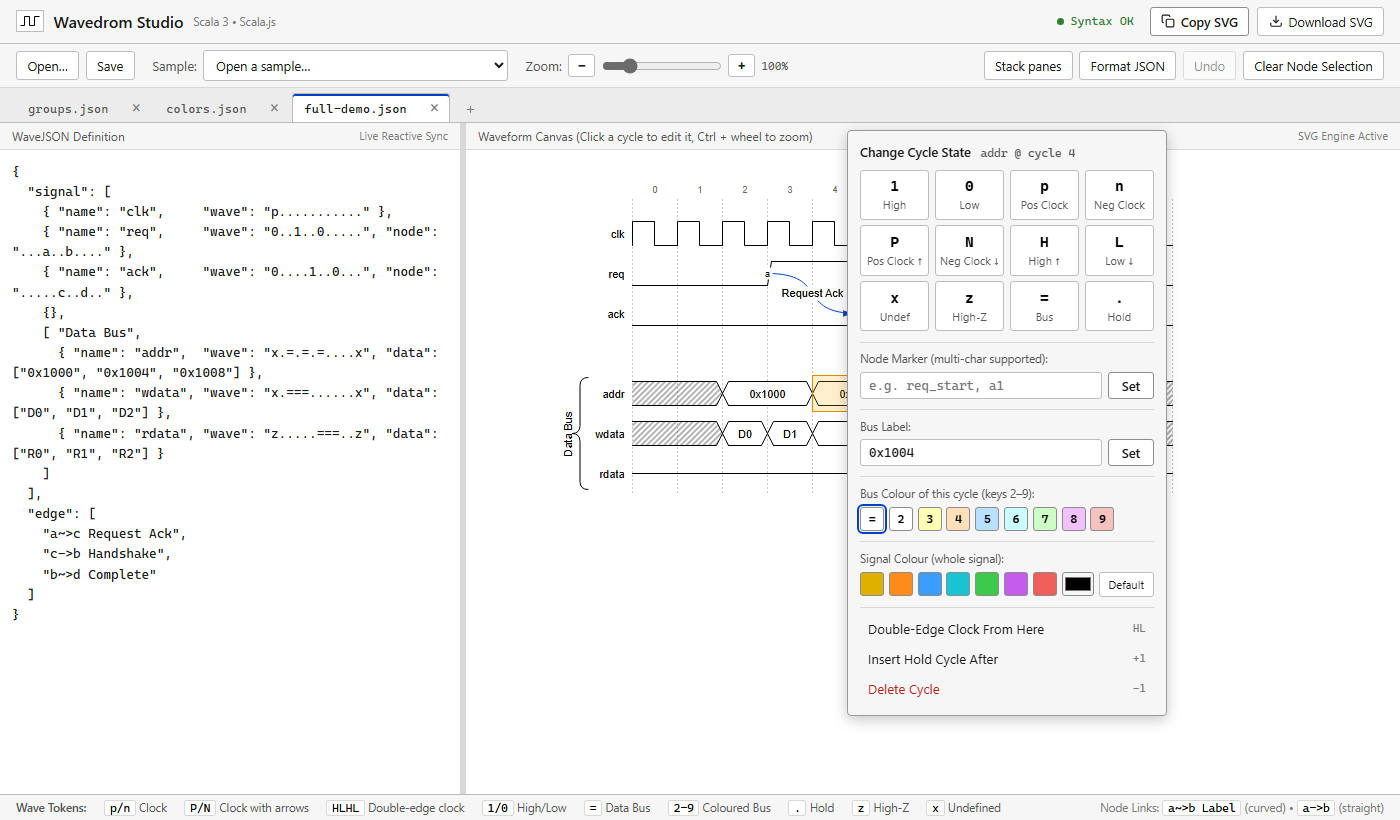
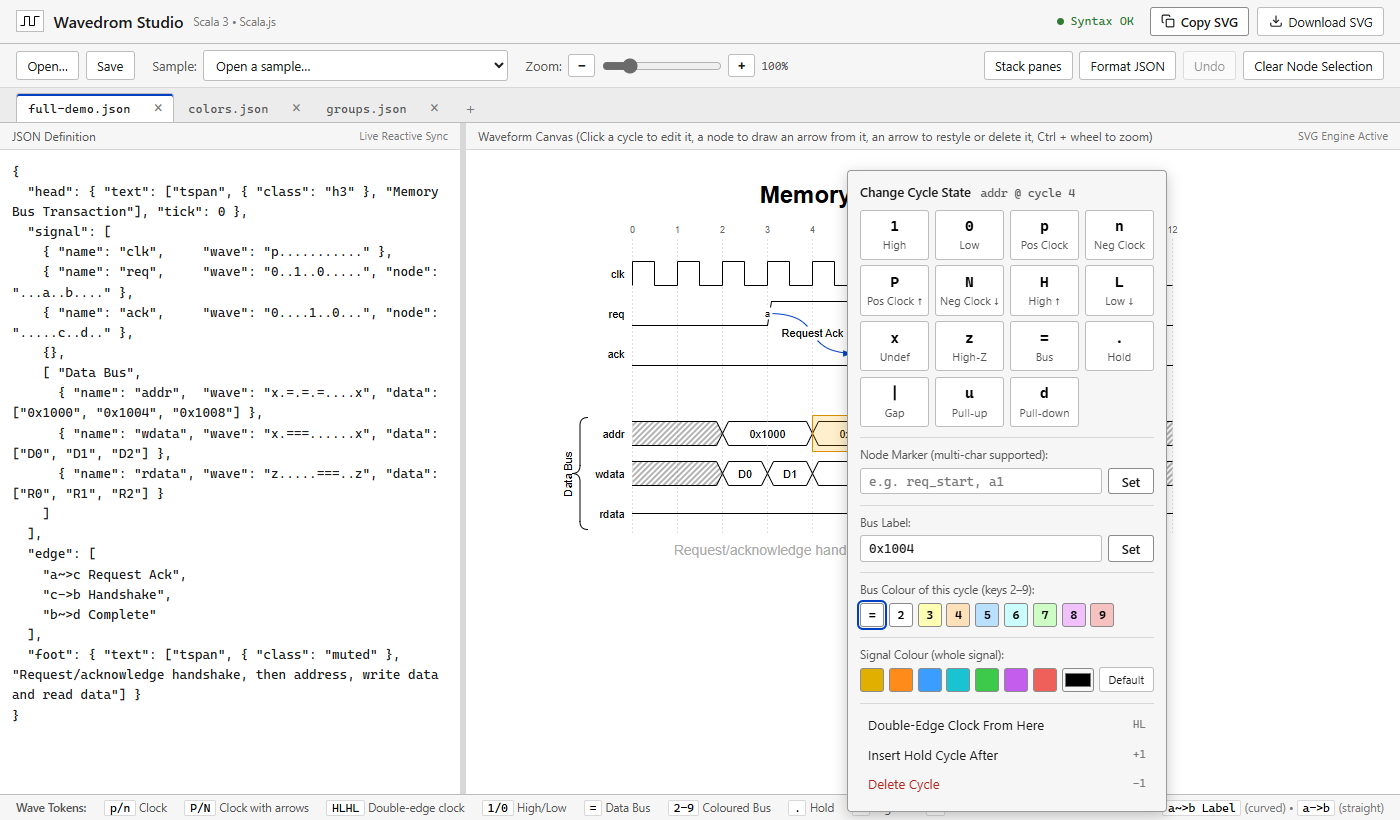
Tidy the Edge arrows sample and regenerate the README screenshots
The sample now has one group per arrow family, each with its arrows in
separate columns, so none of them cross; labels name the shape they show.
The README screenshots are regenerated for the current look (headers and
footers, the new cycle editor buttons), and a new one shows the arrow editor.

diff --git a/README.md b/README.md
@@ -79,6 +79,8 @@ Clicking past the end of a short signal extends it.
 
 Arrows connect two node markers. To draw one, click the node it starts from, pick one of the 21 styles (curves, elbows, straight lines or the `+` measurement line) and optionally type a label. The arrow then follows the mouse: click the node it should end at to finish it. Esc, a click on empty space, or a second click on the starting node gives it up. **Clear Node Selection** does the same.
 
+![The arrow editor](docs/images/arrow-editor.png)
+
 To change an arrow, click it. The popover shows its style and label: pick another style, or edit the label and press Apply (the two nodes stay as they are), or choose **Delete Arrow**. Nodes whose names contain anything other than letters, digits and underscores cannot be used in arrows.
 
 Drawing, restyling and deleting arrows are edits to the `edge` list of the JSON, so Undo (Ctrl+Z) takes them back.
